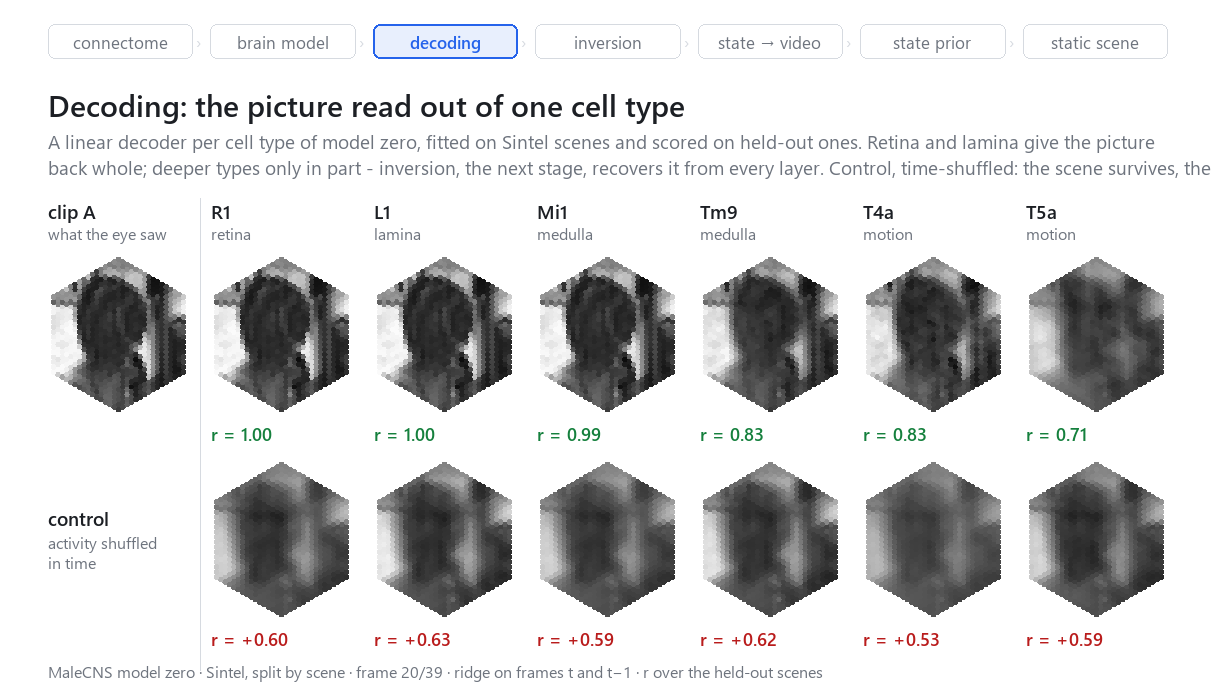
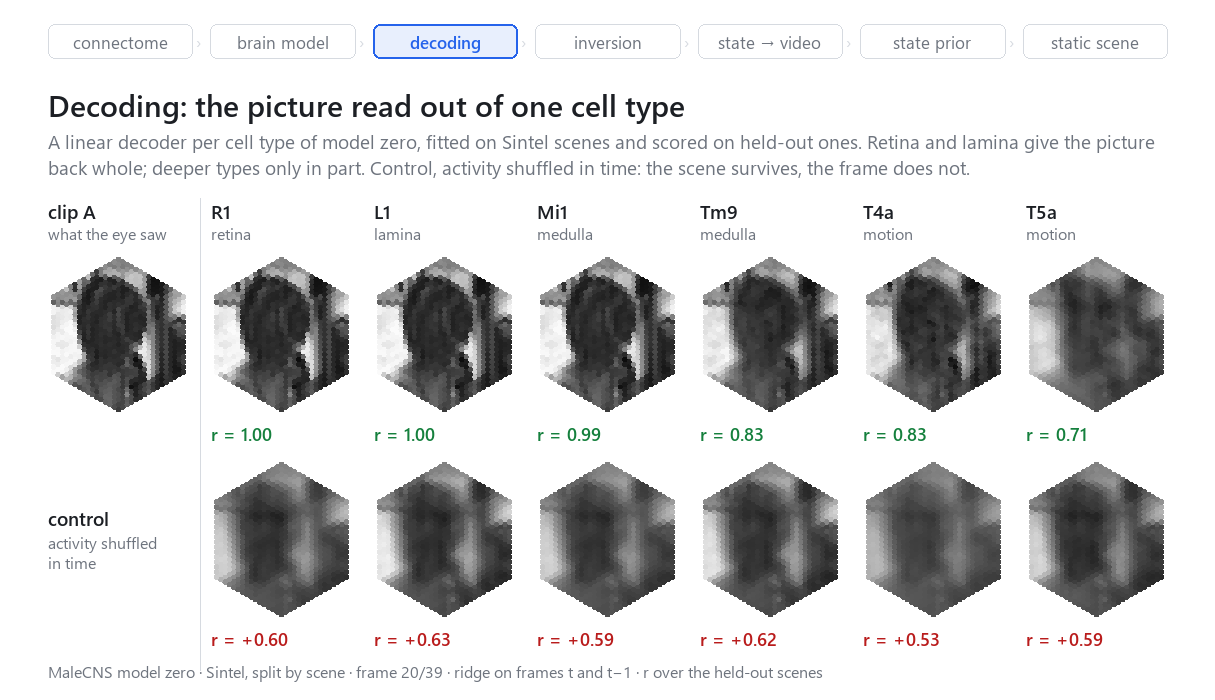
Article part 1 finalised in Russian (reports/2026-09-19_article_part1_ru.md): figures from docs/figures in place, section 2 on the recomputed v7/v9 numbers with the OFF-pathway defect (ISS-0015) as a limitation, one term for the round trip, references; step-2 report gains the v7/v9 tables from the s

Changed region(s): [[0.3045, 0.21, 1.0, 0.27]]

diff --git a/tools/fig_gh_decoding.py b/tools/fig_gh_decoding.py
@@ -86,8 +86,8 @@ def main(argv=None) -> int:
         d.text((48, y), "A linear decoder per cell type of model zero, fitted on Sintel scenes and scored on held-out "
                         "ones. Retina and lamina give the picture", font=f_body, fill=MUTED)
         y += 26
-        d.text((48, y), "back whole; deeper types only in part - inversion, the next stage, recovers it from every "
-                        "layer. Control, time-shuffled: the scene survives, the frame does not.", font=f_body, fill=MUTED)
+        d.text((48, y), "back whole; deeper types only in part. Control, activity shuffled in time: the scene survives, "
+                        "the frame does not.", font=f_body, fill=MUTED)
         y += 44
         xs = [48 + i * (pw + gap) for i in range(cols)]
         d.text((xs[0], y), "clip A", font=f_lab, fill=INK)

diff --git a/reports/2026-09-18_step2_model_zero.md b/reports/2026-09-18_step2_model_zero.md
@@ -75,3 +75,30 @@ CPU: финальный прогон (9 сетей, оба протокола) 8
 ## 6. Следующий гейт
 
 Шаг 3: обучение ансамбля на задаче оптического потока (Sintel) на Modal, валидация по тем же протоколам. Перед ним: (а) перенести протоколы на GPU, (б) решить, включать ли CT1 через neuPrint-партнёров (ISS-0002).
+
+## 7. Дополнение 2026-09-24: версии v7 и v9 (текущая модель ноль)
+
+Таблица v5 выше — прямое копирование параметров. В тот же день перенос исправлен (ISS-0003: усиление пересчитано по суммарному входу пары, коэффициент ограничен тройкой — v7), затем экспорт получил исключение для слабых пар (v9, `filters_R_w5wk50m500oc`, 471 пара, 1,35 млн рёбер). Числа ниже пересчитаны из `data/runs/<run>/summary.json` теми же `score_fri`/`score_dsi` из `flydream/model/zero.py`; до этого дополнения они были только в `reports/runs.jsonl`.
+
+| Запуск | Сеть | DSI по членам 000/001/002 | Средний DSI (24) | Ошибка PD по членам | Средняя ошибка PD | Полярность вспышки |
+|---|---|---|---|---|---|---|
+| — | FlyVis | 0,547 / 0,344 / 0,281 | 0,391 | 11,5° / 14,4° / 69,1° | 31,7° | 0,906 |
+| `2026-09-18_step2_zero_R_v7_total_cap3` | MaleCNS v7 | 0,101 / 0,150 / 0,075 | 0,109 | 35,7° / 10,2° / 8,2° | 18,0° | 0,944 |
+| `2026-09-18_step2_zero_R_v9_wk50m500oc` | MaleCNS v9 | 0,200 / 0,191 / 0,065 | **0,152** | 45,8° / 7,8° / 63,8° | 39,2° | 0,922 |
+
+Все три члена устойчивы в v7 и v9. v9 против v7 — размен: средний DSI выше на 40 %, средняя ошибка направления вдвое больше.
+
+По подтипам в v9 (DSI / ошибка PD):
+
+| член | T4a | T4b | T4c | T4d | T5a | T5b | T5c | T5d |
+|---|---|---|---|---|---|---|---|---|
+| FlyVis 001 | 0,748 / 4° | 0,545 / 8° | 0,596 / 9° | 0,557 / 19° | 0,146 / 50° | 0,108 / 22° | 0,043 / 1° | 0,008 / 2° |
+| MaleCNS 000 | 0,050 / 2° | 0,074 / 3° | 0,145 / 14° | 0,000 / 90° | 0,070 / 144° | 0,290 / 6° | 0,728 / 59° | 0,241 / 49° |
+| MaleCNS 001 | 0,465 / 4° | 0,446 / 4° | 0,296 / 11° | 0,267 / 3° | 0,020 / 20° | 0,016 / 17° | 0,014 / 4° | 0,006 / 1° |
+| MaleCNS 002 | 0,185 / 6° | 0,059 / 23° | 0,115 / 23° | 0,122 / 18° | 0,015 / 157° | 0,012 / 170° | 0,006 / 62° | 0,007 / 52° |
+
+- **T4 (путь ON) перенёсся.** Лучший член 001: DSI T4 0,369 против 0,611 у FlyVis на том же члене, ошибка направления T4 5,5° против 9,8°.
+- **T5 (путь OFF) не перенёсся.** На членах 001 и 002 DSI T5 0,006–0,020 (у FlyVis на тех же членах 0,008–0,146, T5 там тоже слабее T4); на члене 000 T5 избирательны (до 0,73), но смотрят на 49–144° мимо известного направления. Среднюю ошибку v9 делают именно эти клетки.
+- Кандидаты причины: слабая связь Tm9 → T5, отсутствие CT1 (ISS-0002) и пространственный дефект пути OFF, найденный позже при отрисовке слоёв (ISS-0015: L3 — правильная решётка точек, Tm9 и T5a в полосах, Tm1 с обратным знаком). Вспышка его не видит: полному полю пространственный узор безразличен.
+
+Запись `dsi_malecns_T4_member001` в журнале запусков исправлена этим пересчётом: там стояло 0,377 и «T5a–d 0,01–0,03 на каждом члене».

diff --git a/ROADMAP.md b/ROADMAP.md
@@ -317,15 +317,21 @@ The human's track, 2026-09-23/24, separate from the research queue and
 running while the static branch is paused. The repository goes public as it
 is, history not rewritten; new commits are kept clean.
 
-- **P1, the master article** - part 1 revised after a number check, part 2
-  drafted; Russian until approved, then English. No chat, quotes or agent
-  process in public text. Open before the final version: the model-zero v9
-  table (DSI, direction error, polarity per member) is only in the run log
-  and belongs in the step-2 report; the batched-inversion speed-up is a range
-  because the source record is ambiguous (one run, ~0.05 dollars, settles it);
-  13A and 13B round trips need one function (ISS-0014); two static-branch
-  numbers have no artefact yet - r 0.922 and the slice numbers (29.3) - and
-  "DC -> one frame" reads 0.791 in one run and 0.825 in another.
+- **P1, the master article** - Russian until approved, then English. No
+  chat, quotes or agent process in public text.
+  - **Part 1** (`reports/2026-09-19_article_part1_ru.md`) finalised in
+    Russian 2026-09-24, awaiting the human's approval: figures from
+    `docs/figures` in place, the v7/v9 table recomputed from the saved runs
+    into the step-2 report § 7 (the run log's T4 record was misadded, 0.377 ->
+    0.369, and "T5 0.01-0.03 on every member" was wrong for member 000),
+    ISS-0015 stated as a limitation, references added. Kept as stated in the
+    text: the batched-inversion speed-up as a range (one run, ~0.05 dollars,
+    would settle it) and the 13A/13B round-trip caveat (ISS-0014).
+  - **Part 2** - drafted; before its final version: a number check of
+    sections 1-11 like part 1's, the flat-field numbers of the static figure
+    (25.3 %) against the run record (27.1 %), and two static-branch numbers
+    with no artefact yet - r 0.922 and the slice numbers (29.3) - and
+    "DC -> one frame" reads 0.791 in one run and 0.825 in another.
 - **P2, README** - Russian draft done; the final is English and longer, with
   three figures: video recovered from layers of the state, generation from a
   known seed, a fresh draw rendered as a static scene. `LICENSE`: MIT.

diff --git a/reports/2026-09-23_master_article_part2_draft.md b/reports/2026-09-23_master_article_part2_draft.md
@@ -1,7 +1,7 @@
 # Что снится мухе? Часть 2. От рендера состояния к генерации без исходного клипа
 
-**Рабочий черновик второй части мастер-статьи, 2026-09-23.** Первая часть
-([черновик](2026-09-19_master_article_draft.md)) кончается на шаге 14: цепочка
+**Рабочий черновик второй части мастер-статьи, 2026-09-23.** [Первая часть](2026-09-19_article_part1_ru.md)
+кончается на шаге 14: цепочка
 `видео → замороженный мозг → состояние T4/T5 → генератор → видео` работает и
 измерена. Эта часть — о следующей задаче: **получить новое видео, у которого
 нет исходного клипа**, через разыгранное состояние мозга. Текст о том, что

diff --git a/README.md b/README.md
@@ -2,7 +2,7 @@
 
 **Video from the brain state of a connectome-constrained model of the fruit fly visual system.**
 
-[Article, part 1](reports/2026-09-19_master_article_draft.md) · [Article, part 2](reports/2026-09-23_master_article_part2_draft.md) · [Figures](docs/figures/) · [Run log](reports/runs.jsonl)
+[Article, part 1](reports/2026-09-19_article_part1_ru.md) · [Article, part 2](reports/2026-09-23_master_article_part2_draft.md) · [Figures](docs/figures/) · [Run log](reports/runs.jsonl)
 
 ![Activity of eight cell types of the model while the eye watches a clip](docs/figures/layers_activity.gif)
 
